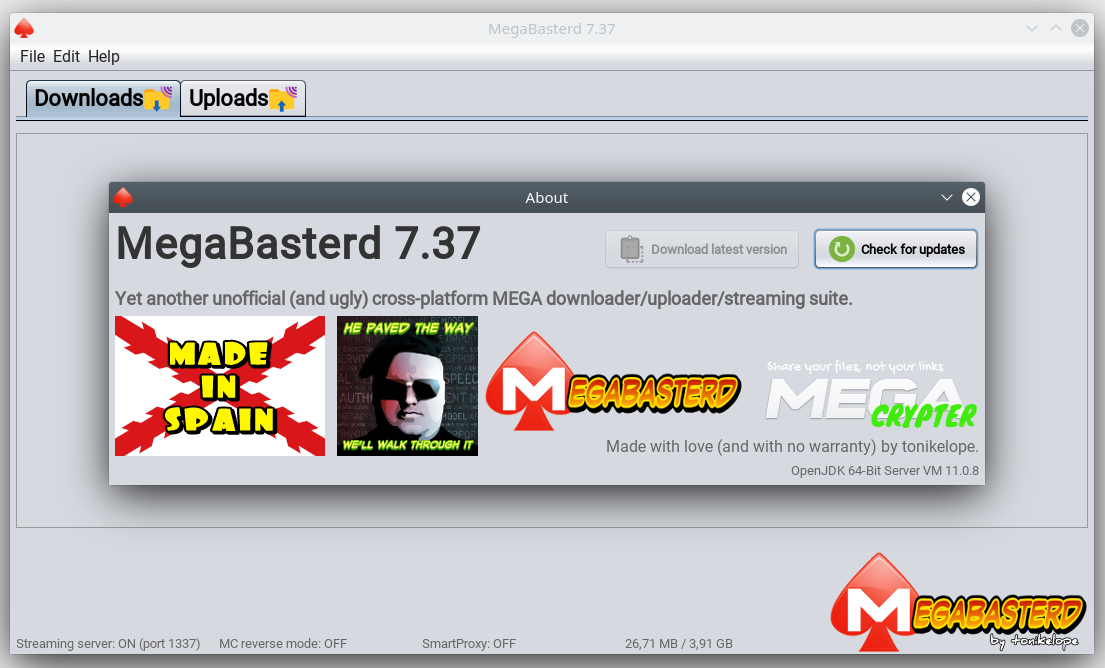
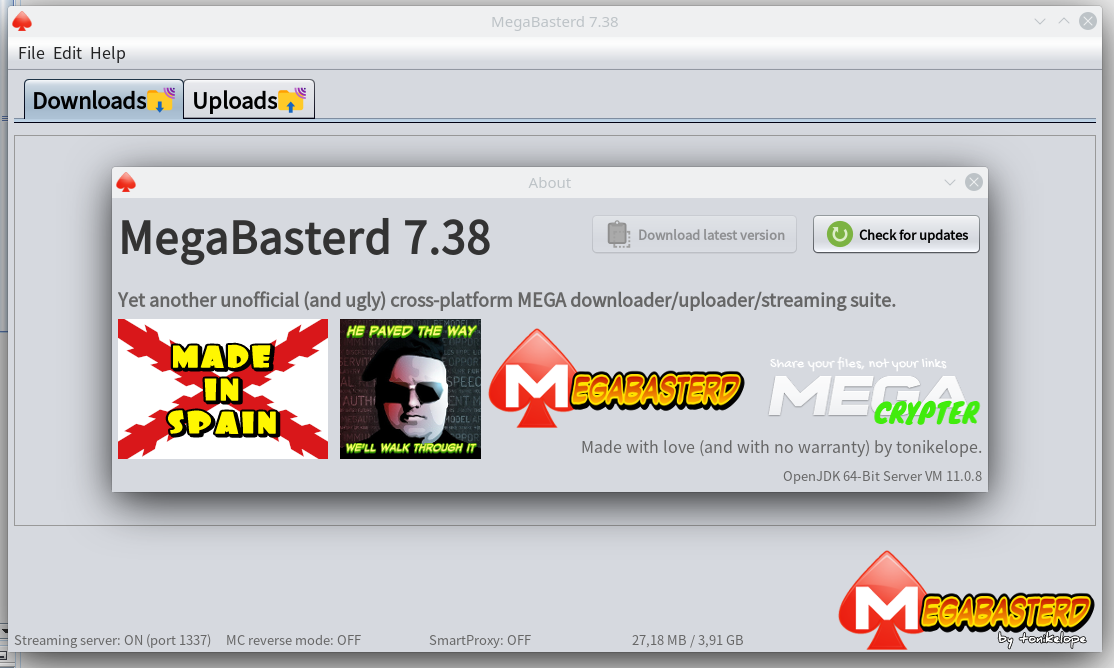
7.38
Trying to fix -> https://github.com/tonikelope/megabasterd/issues/282

diff --git a/src/main/java/com/tonikelope/megabasterd/ChunkWriterManager.java b/src/main/java/com/tonikelope/megabasterd/ChunkWriterManager.java
@@ -113,7 +113,7 @@ public class ChunkWriterManager implements Runnable, SecureSingleThreadNotifiabl
             while (!_notified) {
 
                 try {
-                    _secure_notify_lock.wait();
+                    _secure_notify_lock.wait(1000);
                 } catch (InterruptedException ex) {
                     _exit = true;
                     LOG.log(Level.SEVERE, ex.getMessage());
@@ -153,77 +153,81 @@ public class ChunkWriterManager implements Runnable, SecureSingleThreadNotifiabl
     @Override
     public void run() {
 
-        try {
+        LOG.log(Level.INFO, "{0} ChunkWriterManager: let's do some work! {1}", new Object[]{Thread.currentThread().getName(), _download.getFile_name()});
+        LOG.log(Level.INFO, "{0} ChunkWriterManager LAST CHUNK WRITTEN -> [{1}] {2} {3}...", new Object[]{Thread.currentThread().getName(), _last_chunk_id_written, _bytes_written, _download.getFile_name()});
+        boolean download_finished = false;
+        if (_file_size > 0) {
+            while (!_exit && (!_download.isStopped() || !_download.getChunkworkers().isEmpty()) && _bytes_written < _file_size) {
 
-            LOG.log(Level.INFO, "{0} ChunkWriterManager: let's do some work! {1}", new Object[]{Thread.currentThread().getName(), _download.getFile_name()});
+                boolean chunk_io_error;
 
-            LOG.log(Level.INFO, "{0} ChunkWriterManager LAST CHUNK WRITTEN -> [{1}] {2} {3}...", new Object[]{Thread.currentThread().getName(), _last_chunk_id_written, _bytes_written, _download.getFile_name()});
+                do {
 
-            boolean download_finished = false;
+                    chunk_io_error = false;
 
-            if (_file_size > 0) {
-                while (!_exit && (!_download.isStopped() || !_download.getChunkworkers().isEmpty()) && _bytes_written < _file_size) {
+                    try {
 
-                    File chunk_file = new File(getChunks_dir() + "/" + new File(_download.getFile_name()).getName() + ".chunk" + String.valueOf(_last_chunk_id_written + 1));
+                        File chunk_file = new File(getChunks_dir() + "/" + new File(_download.getFile_name()).getName() + ".chunk" + String.valueOf(_last_chunk_id_written + 1));
 
-                    while (chunk_file.exists() && chunk_file.canRead()) {
+                        while (chunk_file.exists() && chunk_file.canRead() && chunk_file.length() > 0) {
 
-                        if (!download_finished && _download.getProgress() == _file_size) {
+                            if (!download_finished && _download.getProgress() == _file_size) {
 
-                            _download.getMain_panel().getDownload_manager().getTransference_running_list().remove(_download);
-                            _download.getMain_panel().getDownload_manager().secureNotify();
+                                _download.getMain_panel().getDownload_manager().getTransference_running_list().remove(_download);
+                                _download.getMain_panel().getDownload_manager().secureNotify();
 
-                            _download.getView().printStatusNormal("Download finished. Joining file chunks, please wait...");
-                            _download.getView().getPause_button().setVisible(false);
-                            _download.getMain_panel().getGlobal_dl_speed().detachTransference(_download);
-                            _download.getView().getSpeed_label().setVisible(false);
-                            _download.getView().getSlots_label().setVisible(false);
-                            _download.getView().getSlot_status_label().setVisible(false);
-                            _download.getView().getSlots_spinner().setVisible(false);
-                            download_finished = true;
-                        }
-
-                        byte[] buffer = new byte[MainPanel.DEFAULT_BYTE_BUFFER_SIZE];
-
-                        int reads;
-
-                        try (CipherInputStream cis = new CipherInputStream(new BufferedInputStream(new FileInputStream(chunk_file)), genDecrypter("AES", "AES/CTR/NoPadding", _byte_file_key, forwardMEGALinkKeyIV(_byte_iv, _bytes_written)))) {
-                            while ((reads = cis.read(buffer)) != -1) {
-                                _download.getOutput_stream().write(buffer, 0, reads);
+                                _download.getView().printStatusNormal("Download finished. Joining file chunks, please wait...");
+                                _download.getView().getPause_button().setVisible(false);
+                                _download.getMain_panel().getGlobal_dl_speed().detachTransference(_download);
+                                _download.getView().getSpeed_label().setVisible(false);
+                                _download.getView().getSlots_label().setVisible(false);
+                                _download.getView().getSlot_status_label().setVisible(false);
+                                _download.getView().getSlots_spinner().setVisible(false);
+                                download_finished = true;
                             }
-                        } catch (NoSuchAlgorithmException | NoSuchPaddingException | InvalidKeyException | InvalidAlgorithmParameterException ex) {
-                            LOG.log(Level.SEVERE, ex.getMessage());
+
+                            byte[] buffer = new byte[MainPanel.DEFAULT_BYTE_BUFFER_SIZE];
+
+                            int reads;
+
+                            try (CipherInputStream cis = new CipherInputStream(new BufferedInputStream(new FileInputStream(chunk_file)), genDecrypter("AES", "AES/CTR/NoPadding", _byte_file_key, forwardMEGALinkKeyIV(_byte_iv, _bytes_written)))) {
+                                while ((reads = cis.read(buffer)) != -1) {
+                                    _download.getOutput_stream().write(buffer, 0, reads);
+                                }
+                            } catch (NoSuchAlgorithmException | NoSuchPaddingException | InvalidKeyException | InvalidAlgorithmParameterException ex) {
+                                LOG.log(Level.SEVERE, ex.getMessage());
+                            }
+
+                            _bytes_written += chunk_file.length();
+
+                            _last_chunk_id_written++;
+
+                            LOG.log(Level.INFO, "{0} ChunkWriterManager has written to disk chunk [{1}] {2} {3} {4}...", new Object[]{Thread.currentThread().getName(), _last_chunk_id_written, _bytes_written, _download.calculateLastWrittenChunk(_bytes_written), _download.getFile_name()});
+
+                            chunk_file.delete();
+
+                            chunk_file = new File(getChunks_dir() + "/" + new File(_download.getFile_name()).getName() + ".chunk" + String.valueOf(_last_chunk_id_written + 1));
+
                         }
-
-                        _bytes_written += chunk_file.length();
-
-                        LOG.log(Level.INFO, "{0} ChunkWriterManager has written to disk chunk [{1}] {2} {3} {4}...", new Object[]{Thread.currentThread().getName(), _last_chunk_id_written + 1, _bytes_written, _download.calculateLastWrittenChunk(_bytes_written), _download.getFile_name()});
-
-                        _last_chunk_id_written++;
-
-                        chunk_file.delete();
-
-                        chunk_file = new File(getChunks_dir() + "/" + new File(_download.getFile_name()).getName() + ".chunk" + String.valueOf(_last_chunk_id_written + 1));
+                    } catch (IOException ex) {
+                        chunk_io_error = true;
+                        LOG.log(Level.WARNING, ex.getMessage());
+                        MiscTools.pausar(1000);
                     }
+                } while (chunk_io_error);
 
-                    if (!_exit && (!_download.isStopped() || !_download.getChunkworkers().isEmpty()) && _bytes_written < _file_size) {
+                if (!_exit && (!_download.isStopped() || !_download.getChunkworkers().isEmpty()) && _bytes_written < _file_size) {
 
-                        LOG.log(Level.INFO, "{0} ChunkWriterManager waiting for chunk [{1}] {2}...", new Object[]{Thread.currentThread().getName(), _last_chunk_id_written + 1, _download.getFile_name()});
+                    LOG.log(Level.INFO, "{0} ChunkWriterManager waiting for chunk [{1}] {2}...", new Object[]{Thread.currentThread().getName(), _last_chunk_id_written + 1, _download.getFile_name()});
 
-                        secureWait();
+                    secureWait();
 
-                    }
-                }
-
-                if (_bytes_written == _file_size) {
-                    delete_chunks_temp_dir();
                 }
             }
 
-        } catch (IOException ex) {
-
-            LOG.log(Level.SEVERE, ex.getMessage());
-            _download.stopDownloader(ex.getMessage());
+            if (_bytes_written == _file_size) {
+                delete_chunks_temp_dir();
+            }
         }
 
         _exit = true;

diff --git a/src/main/java/com/tonikelope/megabasterd/StreamChunkManager.java b/src/main/java/com/tonikelope/megabasterd/StreamChunkManager.java
@@ -170,7 +170,7 @@ public class StreamChunkManager implements Runnable, SecureMultiThreadNotifiable
             while (!_notified_threads.get(current_thread)) {
 
                 try {
-                    _secure_notify_lock.wait();
+                    _secure_notify_lock.wait(1000);
                 } catch (InterruptedException ex) {
                     LOG.log(Level.SEVERE, ex.getMessage());
                 }

diff --git a/src/main/java/com/tonikelope/megabasterd/StreamThrottlerSupervisor.java b/src/main/java/com/tonikelope/megabasterd/StreamThrottlerSupervisor.java
@@ -96,7 +96,7 @@ public class StreamThrottlerSupervisor implements Runnable, SecureMultiThreadNot
             while (!_notified_threads.get(current_thread)) {
 
                 try {
-                    _secure_notify_lock.wait();
+                    _secure_notify_lock.wait(1000);
                 } catch (InterruptedException ex) {
                     LOG.log(Level.SEVERE, ex.getMessage());
                 }

diff --git a/src/main/java/com/tonikelope/megabasterd/Upload.java b/src/main/java/com/tonikelope/megabasterd/Upload.java
@@ -360,7 +360,7 @@ public class Upload implements Transference, Runnable, SecureSingleThreadNotifia
             while (!_notified) {
 
                 try {
-                    _secure_notify_lock.wait();
+                    _secure_notify_lock.wait(1000);
                 } catch (InterruptedException ex) {
                     _exit = true;
                     LOG.log(Level.SEVERE, ex.getMessage());

diff --git a/src/main/java/com/tonikelope/megabasterd/ChunkDownloader.java b/src/main/java/com/tonikelope/megabasterd/ChunkDownloader.java
@@ -97,7 +97,7 @@ public class ChunkDownloader implements Runnable, SecureSingleThreadNotifiable {
             while (!_notified) {
 
                 try {
-                    _secure_notify_lock.wait();
+                    _secure_notify_lock.wait(1000);
                 } catch (InterruptedException ex) {
                     _exit = true;
                     LOG.log(Level.SEVERE, ex.getMessage());

diff --git a/src/main/java/com/tonikelope/megabasterd/UploadMACGenerator.java b/src/main/java/com/tonikelope/megabasterd/UploadMACGenerator.java
@@ -49,7 +49,7 @@ public class UploadMACGenerator implements Runnable, SecureSingleThreadNotifiabl
             while (!_notified) {
 
                 try {
-                    _secure_notify_lock.wait();
+                    _secure_notify_lock.wait(1000);
                 } catch (InterruptedException ex) {
                     _exit = true;
                     LOG.log(Level.SEVERE, ex.getMessage());

diff --git a/src/main/java/com/tonikelope/megabasterd/MainPanel.java b/src/main/java/com/tonikelope/megabasterd/MainPanel.java
@@ -60,7 +60,7 @@ import javax.swing.UIManager;
  */
 public final class MainPanel {
 
-    public static final String VERSION = "7.37";
+    public static final String VERSION = "7.38";
     public static final boolean FORCE_SMART_PROXY = false; //TRUE FOR DEBUGING SMART PROXY
     public static final int THROTTLE_SLICE_SIZE = 16 * 1024;
     public static final int DEFAULT_BYTE_BUFFER_SIZE = 16 * 1024;

diff --git a/src/main/java/com/tonikelope/megabasterd/ChunkUploader.java b/src/main/java/com/tonikelope/megabasterd/ChunkUploader.java
@@ -72,7 +72,7 @@ public class ChunkUploader implements Runnable, SecureSingleThreadNotifiable {
             while (!_notified) {
 
                 try {
-                    _secure_notify_lock.wait();
+                    _secure_notify_lock.wait(1000);
                 } catch (InterruptedException ex) {
                     _exit = true;
                     LOG.log(Level.SEVERE, ex.getMessage());

diff --git a/src/main/java/com/tonikelope/megabasterd/Download.java b/src/main/java/com/tonikelope/megabasterd/Download.java
@@ -1621,7 +1621,7 @@ public class Download implements Transference, Runnable, SecureSingleThreadNotif
             while (!_notified) {
 
                 try {
-                    _secure_notify_lock.wait();
+                    _secure_notify_lock.wait(1000);
                 } catch (InterruptedException ex) {
                     _exit = true;
                     LOG.log(SEVERE, null, ex);

diff --git a/src/main/java/com/tonikelope/megabasterd/TransferenceManager.java b/src/main/java/com/tonikelope/megabasterd/TransferenceManager.java
@@ -212,7 +212,7 @@ abstract public class TransferenceManager implements Runnable, SecureSingleThrea
             while (!_notified) {
 
                 try {
-                    _secure_notify_lock.wait();
+                    _secure_notify_lock.wait(1000);
                 } catch (InterruptedException ex) {
                     LOG.log(Level.SEVERE, ex.getMessage());
                 }

diff --git a/src/main/java/com/tonikelope/megabasterd/ProgressMeter.java b/src/main/java/com/tonikelope/megabasterd/ProgressMeter.java
@@ -47,7 +47,7 @@ public class ProgressMeter implements Runnable, SecureSingleThreadNotifiable {
             while (!_notified) {
 
                 try {
-                    _secure_notify_lock.wait();
+                    _secure_notify_lock.wait(1000);
                 } catch (InterruptedException ex) {
                     _exit = true;
                     LOG.log(SEVERE, null, ex);

diff --git a/src/main/java/com/tonikelope/megabasterd/ClipboardSpy.java b/src/main/java/com/tonikelope/megabasterd/ClipboardSpy.java
@@ -81,7 +81,7 @@ public class ClipboardSpy implements Runnable, ClipboardOwner, SecureSingleThrea
             while (!_notified) {
 
                 try {
-                    _secure_notify_lock.wait();
+                    _secure_notify_lock.wait(1000);
                 } catch (InterruptedException ex) {
                     LOG.log(SEVERE, ex.getMessage());
                 }
